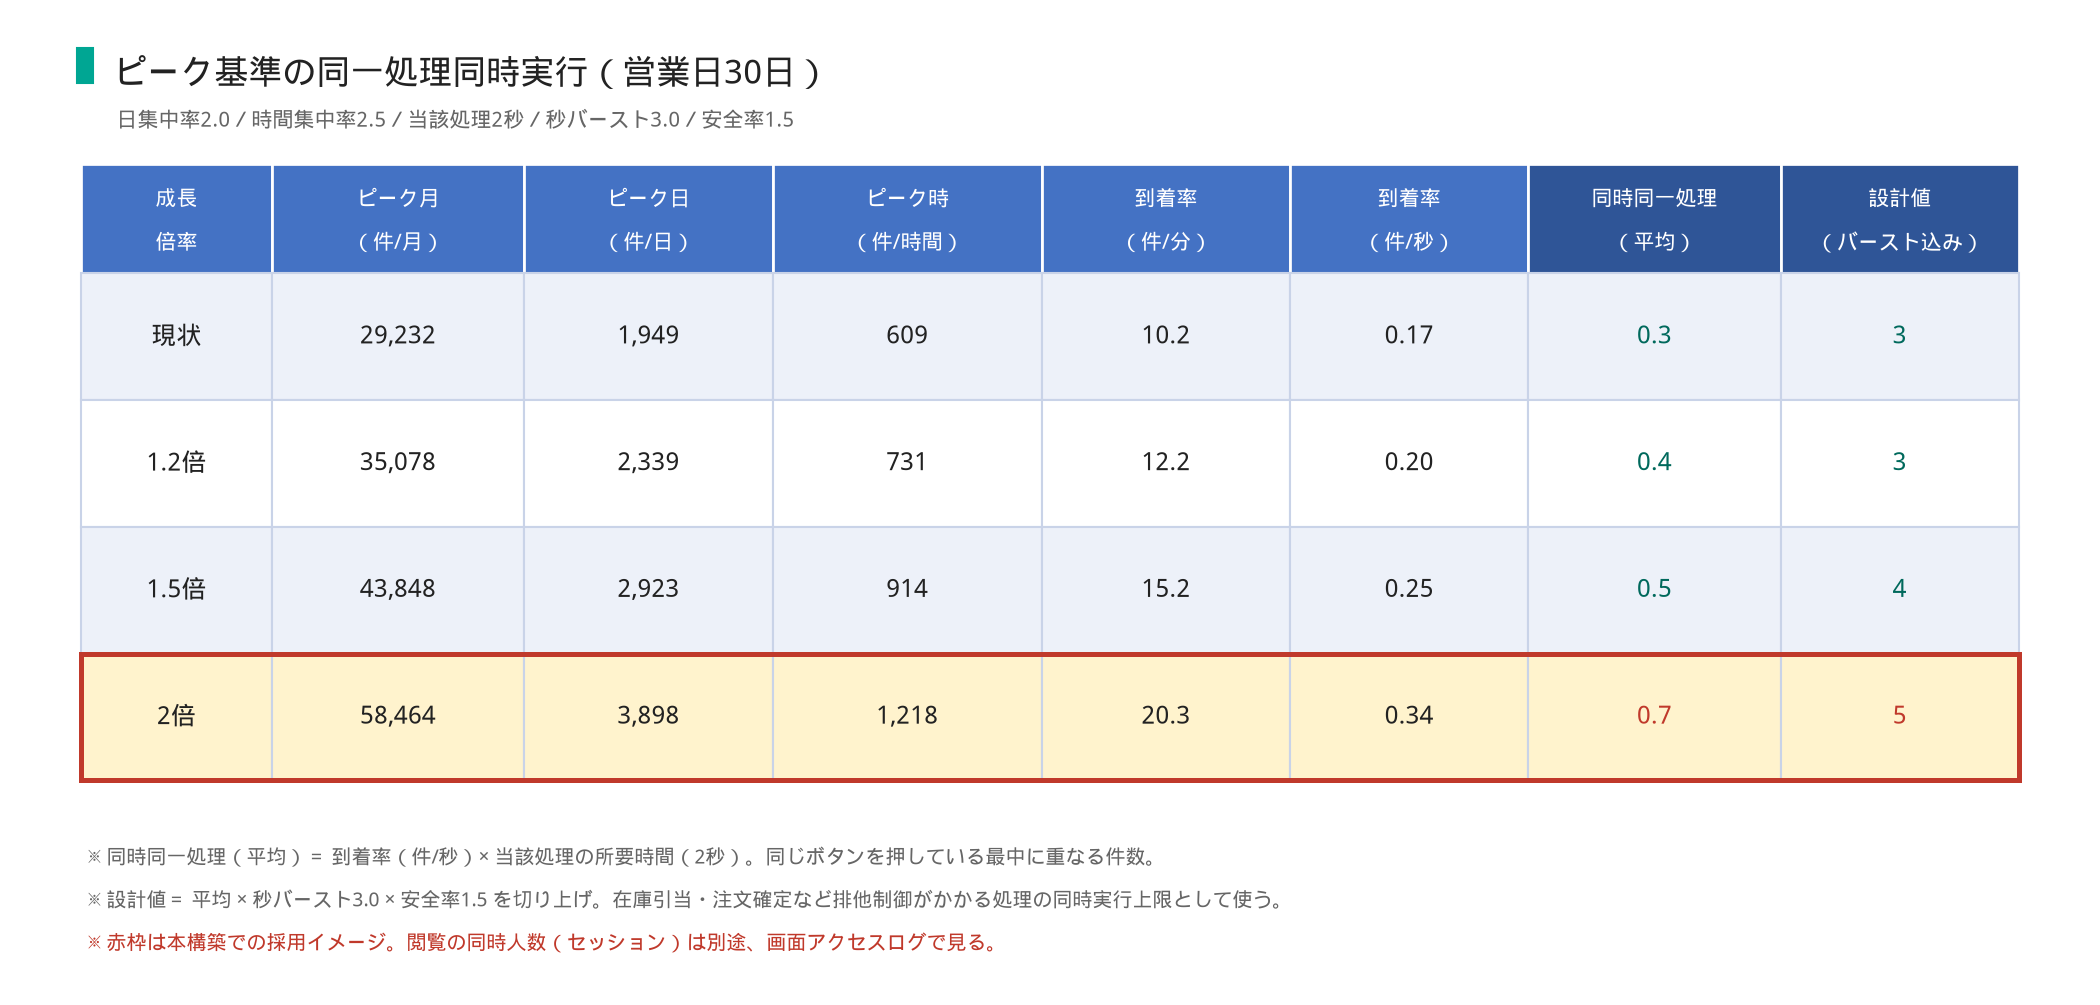
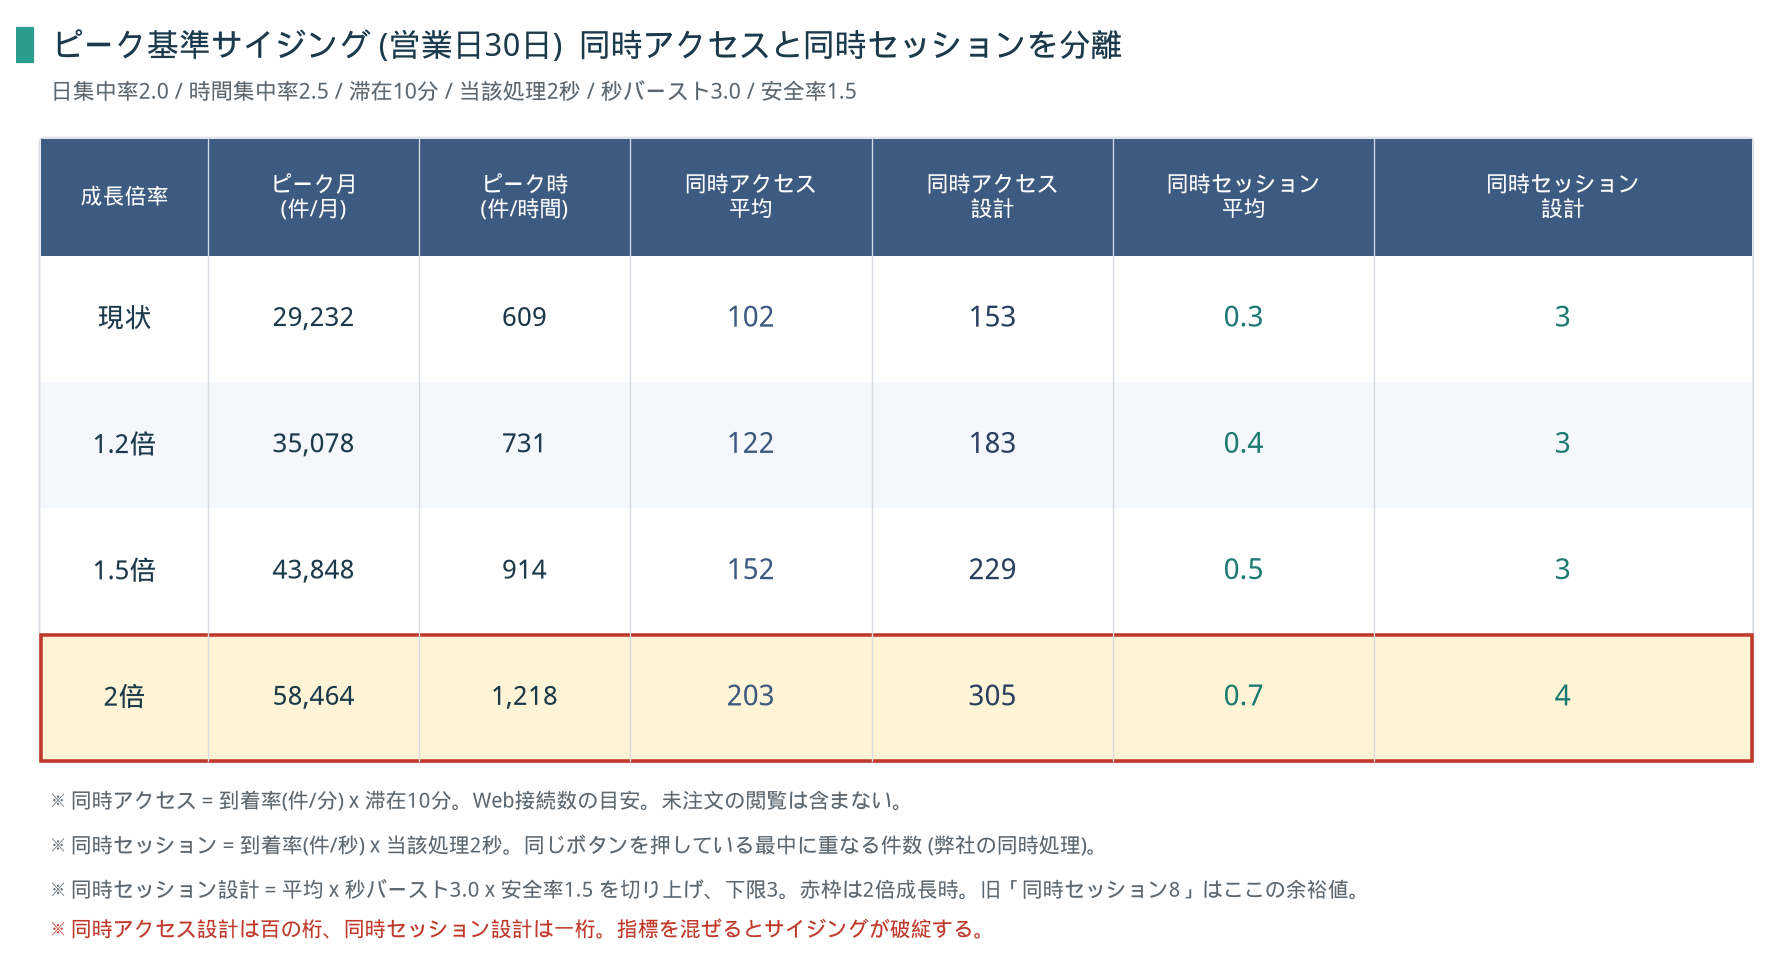
docs: 同時アクセスと同時セッション(同時処理)を分離して再算定
弊社定義に合わせ、同時セッションは同一処理の同時実行、
同時アクセスは閲覧人数として図表を分けた。

diff --git a/gen_sizing_charts.py b/gen_sizing_charts.py
@@ -1,0 +1,292 @@
+#!/usr/bin/env python3
+"""同時アクセス / 同時セッション を分けたサイジング図を生成する。"""
+
+from math import ceil
+
+import matplotlib.pyplot as plt
+from matplotlib import font_manager
+from matplotlib.patches import FancyBboxPatch, Rectangle
+
+FONT = font_manager.FontProperties(fname="/usr/share/fonts/truetype/wqy/wqy-microhei.ttc")
+plt.rcParams["font.family"] = FONT.get_name()
+plt.rcParams["axes.unicode_minus"] = False
+
+TEAL = "#2A9D8F"
+TEAL_DK = "#1D7A70"
+ORANGE = "#E07A3D"
+RED = "#C0392B"
+BLUE = "#3D5A80"
+BLUE_DK = "#2B4060"
+GRAY = "#5C6770"
+BG = "#F7F8FA"
+LINE = "#D5DBE0"
+NAVY = "#1B3A4B"
+
+PEAK_MONTH = 29232
+DAYS = 30
+DAY_F = 2.0
+HOURS = 8
+HOUR_F = 2.5
+PROC_SEC = 2.0
+BURST = 3.0
+SAFE_SESS = 1.5
+DWELL_MIN = 10.0
+SAFE_ACC = 1.5
+MIN_SESS = 3
+
+
+def metrics(growth: float):
+    month = PEAK_MONTH * growth
+    avg_day = month / DAYS
+    peak_day = avg_day * DAY_F
+    avg_h = peak_day / HOURS
+    peak_h = avg_h * HOUR_F
+    per_min = peak_h / 60
+    per_sec = peak_h / 3600
+    sess_avg = per_sec * PROC_SEC
+    sess_design = max(MIN_SESS, ceil(sess_avg * BURST * SAFE_SESS - 1e-9))
+    acc_avg = per_min * DWELL_MIN
+    acc_design = ceil(acc_avg * SAFE_ACC - 1e-9)
+    return {
+        "growth": growth,
+        "month": month,
+        "avg_day": avg_day,
+        "peak_day": peak_day,
+        "avg_h": avg_h,
+        "peak_h": peak_h,
+        "per_min": per_min,
+        "per_sec": per_sec,
+        "sess_avg": sess_avg,
+        "sess_design": sess_design,
+        "acc_avg": acc_avg,
+        "acc_design": acc_design,
+    }
+
+
+def set_font(ax):
+    for t in ax.get_xticklabels() + ax.get_yticklabels():
+        t.set_fontproperties(FONT)
+
+
+def save(fig, path):
+    fig.savefig(path, dpi=160, bbox_inches="tight", facecolor="white")
+    plt.close(fig)
+    print("wrote", path)
+
+
+def text(ax, x, y, s, size=11, color=NAVY, ha="left", va="center", weight=None):
+    ax.text(x, y, s, fontproperties=FONT, fontsize=size, color=color, ha=ha, va=va, weight=weight)
+
+
+def title_bar(ax, label):
+    ax.add_patch(Rectangle((0, 0.93), 0.012, 0.045, color=TEAL, transform=ax.transAxes, clip_on=False))
+    text(ax, 0.03, 0.952, label, size=15, color=NAVY, va="center")
+
+
+# --- 1. 用語の切り分け ---
+fig, ax = plt.subplots(figsize=(13.2, 7.4))
+ax.set_xlim(0, 13.2)
+ax.set_ylim(0, 7.4)
+ax.axis("off")
+fig.patch.set_facecolor("white")
+ax.add_patch(Rectangle((0, 7.05), 0.14, 0.28, color=TEAL))
+text(ax, 0.28, 7.18, "同時アクセスと同時セッションの切り分け", size=16, color=NAVY)
+text(ax, 0.28, 6.78, "弊社定義: 同時セッション = 同時処理。同時アクセス = 閲覧中の人数。混ぜない。", size=11, color=GRAY)
+
+boxes = [
+    {
+        "x": 0.25,
+        "title": "同時アクセス",
+        "sub": "Concurrent access / 閲覧",
+        "color": BLUE,
+        "fill": "#EAF0F6",
+        "lines": [
+            "カタログ閲覧・検索・カート操作など、",
+            "画面を開いている人数。",
+            "",
+            "同じボタンを押している必要はない。",
+            "Web接続数・メモリの目安。",
+            "",
+            "算定: 到着率 x 滞在時間",
+            "今回: 滞在10分仮定 (ログ未取得)",
+        ],
+    },
+    {
+        "x": 6.75,
+        "title": "同時セッション",
+        "sub": "同時処理 / 同一操作の同時実行",
+        "color": TEAL_DK,
+        "fill": "#E6F4F2",
+        "lines": [
+            "注文確定・在庫引当・採番など、",
+            "同じ処理のボタンを同時に押す件数。",
+            "",
+            "ログイン中でも処理していなければ 0。",
+            "在庫ロック・排他・採番の目安。",
+            "",
+            "算定: 到着率 x 当該処理の所要時間",
+            "今回: 処理2秒 / 秒バースト3 / 安全率1.5",
+        ],
+    },
+]
+for b in boxes:
+    ax.add_patch(
+        FancyBboxPatch(
+            (b["x"], 0.45),
+            6.2,
+            6.05,
+            boxstyle="round,pad=0.02,rounding_size=0.08",
+            facecolor=b["fill"],
+            edgecolor=b["color"],
+            linewidth=1.6,
+        )
+    )
+    ax.add_patch(Rectangle((b["x"], 5.72), 6.2, 0.78, color=b["color"]))
+    text(ax, b["x"] + 3.1, 6.22, b["title"], size=18, color="white", ha="center")
+    text(ax, b["x"] + 3.1, 5.88, b["sub"], size=10, color="#F4F8F8", ha="center")
+    y = 5.4
+    for line in b["lines"]:
+        text(ax, b["x"] + 0.28, y, line, size=11, color=NAVY if line else GRAY)
+        y -= 0.48
+
+save(fig, "/workspace/用語_同時アクセスと同時セッション.png")
+
+# --- 2. 同時セッション積み上げ ---
+cur = metrics(1.0)
+fig, ax = plt.subplots(figsize=(13.4, 8.6))
+ax.set_xlim(0, 13.4)
+ax.set_ylim(0, 8.6)
+ax.axis("off")
+ax.add_patch(Rectangle((0, 8.22), 0.14, 0.28, color=TEAL))
+text(ax, 0.28, 8.35, "同時セッションの算定 (同時処理 / 営業日30日)", size=15, color=NAVY)
+text(ax, 0.28, 7.98, "同じ処理 (注文確定・在庫引当など) を同じ瞬間に押す件数。閲覧中の人数ではない。", size=10.5, color=GRAY)
+
+rows = [
+    ("1", "ピーク月 (実測)", f"{cur['month']:,.0f} 件/月", "2026年7月実績", TEAL),
+    ("2", "÷ 営業日数 30日", f"{cur['avg_day']:,.0f} 件/日", "ピーク月の日平均", TEAL),
+    ("3", "x 日集中率 2.0", f"{cur['peak_day']:,.0f} 件/日", "締切日への集中 (仮定)", ORANGE),
+    ("4", "÷ 営業時間 8h", f"{cur['avg_h']:,.0f} 件/時間", "ピーク日の時間平均", TEAL),
+    ("5", "x 時間集中率 2.5", f"{cur['peak_h']:,.0f} 件/時間", "時間帯の偏り (仮定)", ORANGE),
+    ("6", "÷ 60分", f"{cur['per_min']:.1f} 件/分  =  {cur['per_sec']:.2f} 件/秒", "ピーク時の注文到着率 λ", TEAL),
+    ("7", f"x 当該処理 {PROC_SEC:.0f}秒", f"{cur['sess_avg']:.2f} が同時処理中", "同時セッション (平均) = λ x 処理時間", TEAL),
+    ("8", f"x 秒バースト {BURST:.0f} x 安全率 {SAFE_SESS}", f"同時セッション (設計)  {cur['sess_design']}", "同一ボタンの同時押しに耐える件数 (下限3)", RED),
+]
+y = 7.55
+for num, left, mid, right, col in rows:
+    ax.add_patch(FancyBboxPatch((0.22, y - 0.28), 12.96, 0.52, boxstyle="round,pad=0.01,rounding_size=0.05", facecolor="#F4FBFA" if col != RED else "#FDECEC", edgecolor=LINE, linewidth=0.8))
+    ax.add_patch(plt.Circle((0.55, y - 0.02), 0.16, color=col))
+    text(ax, 0.55, y - 0.02, num, size=10, color="white", ha="center")
+    text(ax, 0.9, y - 0.02, left, size=11, color=NAVY)
+    text(ax, 7.15, y - 0.02, mid, size=13, color=col, ha="center")
+    text(ax, 12.95, y - 0.02, right, size=10, color=GRAY, ha="right")
+    y -= 0.68
+
+ax.add_patch(FancyBboxPatch((0.22, 0.18), 12.96, 1.55, boxstyle="round,pad=0.02,rounding_size=0.06", facecolor="#FFF8EE", edgecolor="#E8C9A0", linewidth=1.0))
+text(ax, 0.45, 1.38, "読み方", size=11, color=RED)
+text(ax, 0.45, 0.98, "平均は約6秒に1件の注文確定。2秒の処理中に重なるのは平均0.3件。秒単位の偏りを見ても同時セッションは3。", size=10.5, color=NAVY)
+text(ax, 0.45, 0.55, "旧提案の「同時セッション8」は、この同時処理の余裕値として説明できる。同時アクセス (閲覧人数) には使わない。", size=10.5, color=NAVY)
+save(fig, "/workspace/同時セッション算定_積み上げ.png")
+
+# --- 3. 同時アクセス積み上げ ---
+fig, ax = plt.subplots(figsize=(13.4, 8.2))
+ax.set_xlim(0, 13.4)
+ax.set_ylim(0, 8.2)
+ax.axis("off")
+ax.add_patch(Rectangle((0, 7.82), 0.14, 0.28, color=BLUE))
+text(ax, 0.28, 7.95, "同時アクセスの算定 (閲覧人数 / 営業日30日)", size=15, color=NAVY)
+text(ax, 0.28, 7.58, "画面を開いている人数。注文確定ボタンを押している人数ではない。滞在10分は仮定。", size=10.5, color=GRAY)
+
+rows = [
+    ("1-5", "ピーク時の到着率まで", f"{cur['peak_h']:,.0f} 件/時間", "同時セッションと同じ積み上げ", BLUE),
+    ("6", "÷ 60分", f"{cur['per_min']:.1f} 件/分", "ピーク時の注文到着率 λ", BLUE),
+    ("7", f"x 滞在時間 {DWELL_MIN:.0f}分", f"{cur['acc_avg']:.0f} 人が閲覧中", "同時アクセス (平均) = λ x 滞在", BLUE),
+    ("8", f"x 安全率 {SAFE_ACC}", f"同時アクセス (設計)  {cur['acc_design']}", "未注文の閲覧は含まない下限見積", RED),
+]
+y = 7.12
+for num, left, mid, right, col in rows:
+    ax.add_patch(FancyBboxPatch((0.22, y - 0.38), 12.96, 0.68, boxstyle="round,pad=0.01,rounding_size=0.05", facecolor="#F3F6FA" if col != RED else "#FDECEC", edgecolor=LINE, linewidth=0.8))
+    ax.add_patch(plt.Circle((0.62, y - 0.04), 0.2, color=col))
+    text(ax, 0.62, y - 0.04, num, size=9, color="white", ha="center")
+    text(ax, 1.05, y - 0.04, left, size=12, color=NAVY)
+    text(ax, 7.15, y - 0.04, mid, size=14, color=col, ha="center")
+    text(ax, 12.95, y - 0.04, right, size=10.5, color=GRAY, ha="right")
+    y -= 0.92
+
+ax.add_patch(FancyBboxPatch((0.22, 0.22), 12.96, 2.85, boxstyle="round,pad=0.02,rounding_size=0.06", facecolor="#F3F6FA", edgecolor="#B7C6D6", linewidth=1.0))
+text(ax, 0.45, 2.72, "同時セッションとの差", size=12, color=BLUE_DK)
+text(ax, 0.45, 2.22, "同じ609件/時でも、滞在10分なら同時アクセスは約100人。処理2秒なら同時セッションは1人未満。", size=11, color=NAVY)
+text(ax, 0.45, 1.72, "旧提案の同時セッション8を同時アクセスに使うと、7月ピークの閲覧規模と桁が合わない。", size=11, color=NAVY)
+text(ax, 0.45, 1.22, "この同時アクセスは「注文した人が滞在10分いた場合」の下限。見て帰った人はアクセスログが必要。", size=11, color=NAVY)
+text(ax, 0.45, 0.68, "Webの接続・メモリは同時アクセス側。在庫ロック・採番の排他は同時セッション側。", size=11, color=NAVY)
+save(fig, "/workspace/同時アクセス算定_積み上げ.png")
+
+# --- 4. 根拠表 (両指標) ---
+growths = [1.0, 1.2, 1.5, 2.0]
+labels = ["現状", "1.2倍", "1.5倍", "2倍"]
+fig, ax = plt.subplots(figsize=(14.2, 7.6))
+ax.set_xlim(0, 14.2)
+ax.set_ylim(0, 7.6)
+ax.axis("off")
+ax.add_patch(Rectangle((0, 7.22), 0.14, 0.28, color=TEAL))
+text(ax, 0.28, 7.35, "ピーク基準サイジング (営業日30日)  同時アクセスと同時セッションを分離", size=14.5, color=NAVY)
+text(ax, 0.28, 6.98, "日集中率2.0 / 時間集中率2.5 / 滞在10分 / 当該処理2秒 / 秒バースト3.0 / 安全率1.5", size=10, color=GRAY)
+
+headers = [
+    (0.25, 1.35, "成長\n倍率"),
+    (1.70, 1.55, "ピーク月\n(件/月)"),
+    (3.35, 1.55, "ピーク時\n(件/時間)"),
+    (5.05, 1.85, "同時アクセス\n平均"),
+    (7.00, 1.85, "同時アクセス\n設計"),
+    (8.95, 1.85, "同時セッション\n平均"),
+    (11.05, 1.85, "同時セッション\n設計"),
+]
+# table geometry
+x0, y0, tw, th = 0.2, 1.55, 13.8, 5.05
+ax.add_patch(FancyBboxPatch((x0, y0), tw, th, boxstyle="round,pad=0.01,rounding_size=0.04", facecolor="white", edgecolor=LINE, lw=0.8))
+
+cols = [0.2, 1.55, 3.25, 4.95, 6.9, 8.85, 10.95, 14.0]
+header_h = 0.95
+row_h = (th - header_h) / 4
+# header
+ax.add_patch(Rectangle((x0, y0 + th - header_h), tw, header_h, color=BLUE, linewidth=0))
+heads = ["成長倍率", "ピーク月\n(件/月)", "ピーク時\n(件/時間)", "同時アクセス\n平均", "同時アクセス\n設計", "同時セッション\n平均", "同時セッション\n設計"]
+for i, h in enumerate(heads):
+    cx = (cols[i] + cols[i + 1]) / 2
+    text(ax, cx, y0 + th - header_h / 2, h, size=10, color="white", ha="center")
+
+for r, (lab, g) in enumerate(zip(labels, growths)):
+    m = metrics(g)
+    y = y0 + th - header_h - (r + 1) * row_h
+    if g == 2.0:
+        ax.add_patch(Rectangle((x0, y), tw, row_h, facecolor="#FFF4D6", edgecolor="none"))
+    elif r % 2 == 1:
+        ax.add_patch(Rectangle((x0, y), tw, row_h, facecolor="#F4F7FB", edgecolor="none"))
+    vals = [
+        lab,
+        f"{m['month']:,.0f}",
+        f"{m['peak_h']:,.0f}",
+        f"{m['acc_avg']:.0f}",
+        str(m["acc_design"]),
+        f"{m['sess_avg']:.1f}",
+        str(m["sess_design"]),
+    ]
+    colors = [NAVY, NAVY, NAVY, BLUE, BLUE_DK, TEAL_DK, TEAL_DK]
+    for i, (v, c) in enumerate(zip(vals, colors)):
+        cx = (cols[i] + cols[i + 1]) / 2
+        sz = 13 if i >= 3 else 12
+        text(ax, cx, y + row_h / 2, v, size=sz, color=c, ha="center")
+    if g == 2.0:
+        ax.add_patch(Rectangle((x0, y), tw, row_h, fill=False, edgecolor=RED, linewidth=1.6))
+
+for c in cols[1:-1]:
+    ax.plot([c, c], [y0, y0 + th], color="white" if False else LINE, lw=0.6)
+
+text(ax, 0.28, 1.22, "※ 同時アクセス = 到着率(件/分) x 滞在10分。Web接続数の目安。未注文の閲覧は含まない。", size=9.5, color=GRAY)
+text(ax, 0.28, 0.86, "※ 同時セッション = 到着率(件/秒) x 当該処理2秒。同じボタンを押している最中に重なる件数 (弊社の同時処理)。", size=9.5, color=GRAY)
+text(ax, 0.28, 0.50, "※ 同時セッション設計 = 平均 x 秒バースト3.0 x 安全率1.5 を切り上げ、下限3。赤枠は2倍成長時。旧「同時セッション8」はここの余裕値。", size=9.5, color=GRAY)
+text(ax, 0.28, 0.18, "※ 同時アクセス設計は百の桁、同時セッション設計は一桁。指標を混ぜるとサイジングが破綻する。", size=9.5, color=RED)
+
+save(fig, "/workspace/サイジング根拠_ピーク基準.png")
+
+print("current", metrics(1.0))
+print("x2", metrics(2.0))
